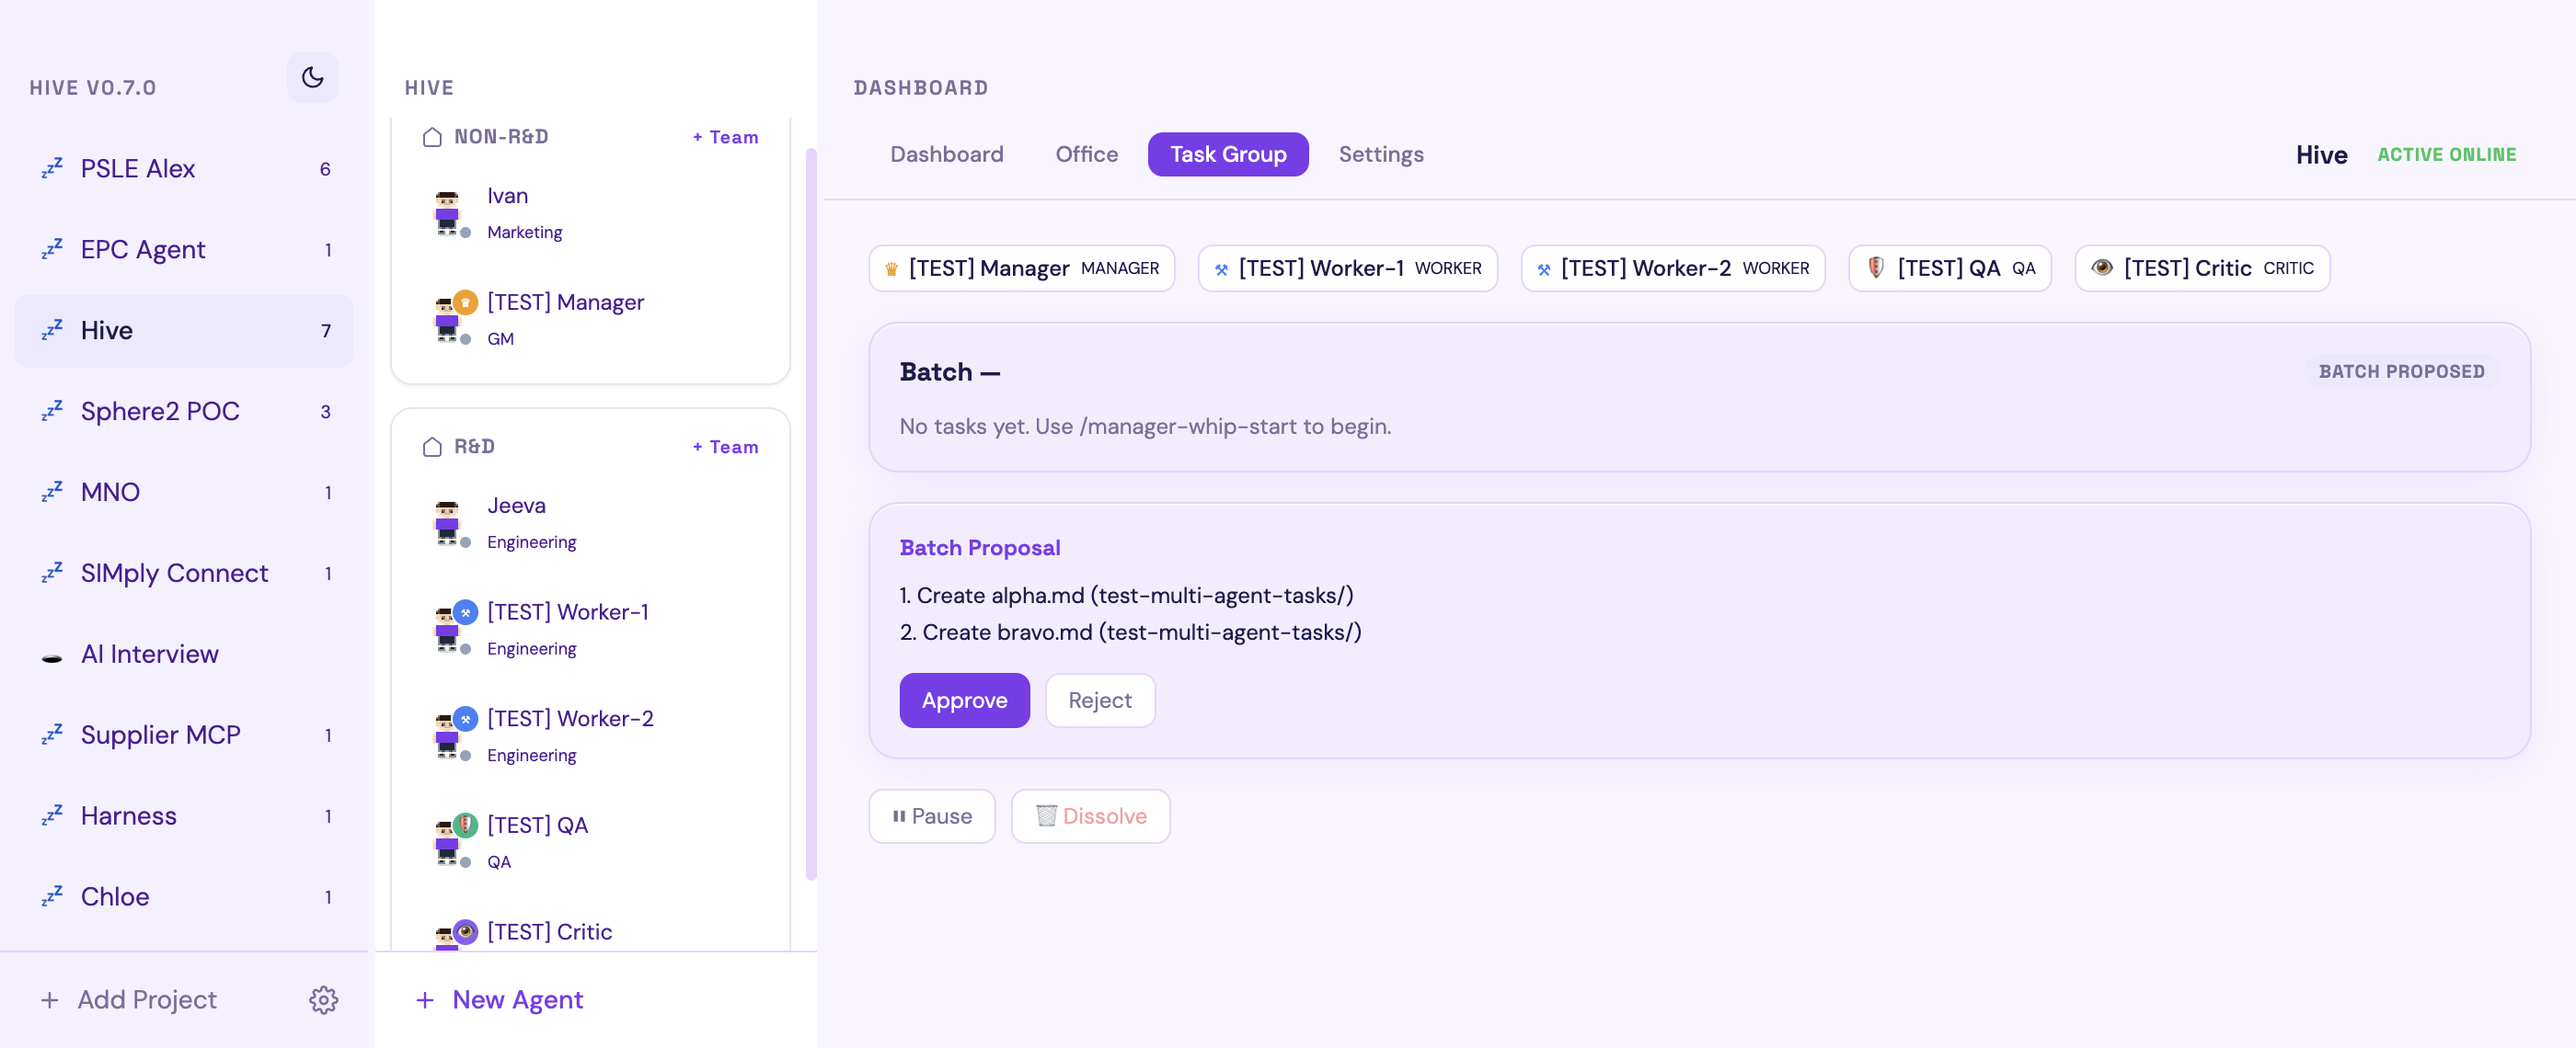
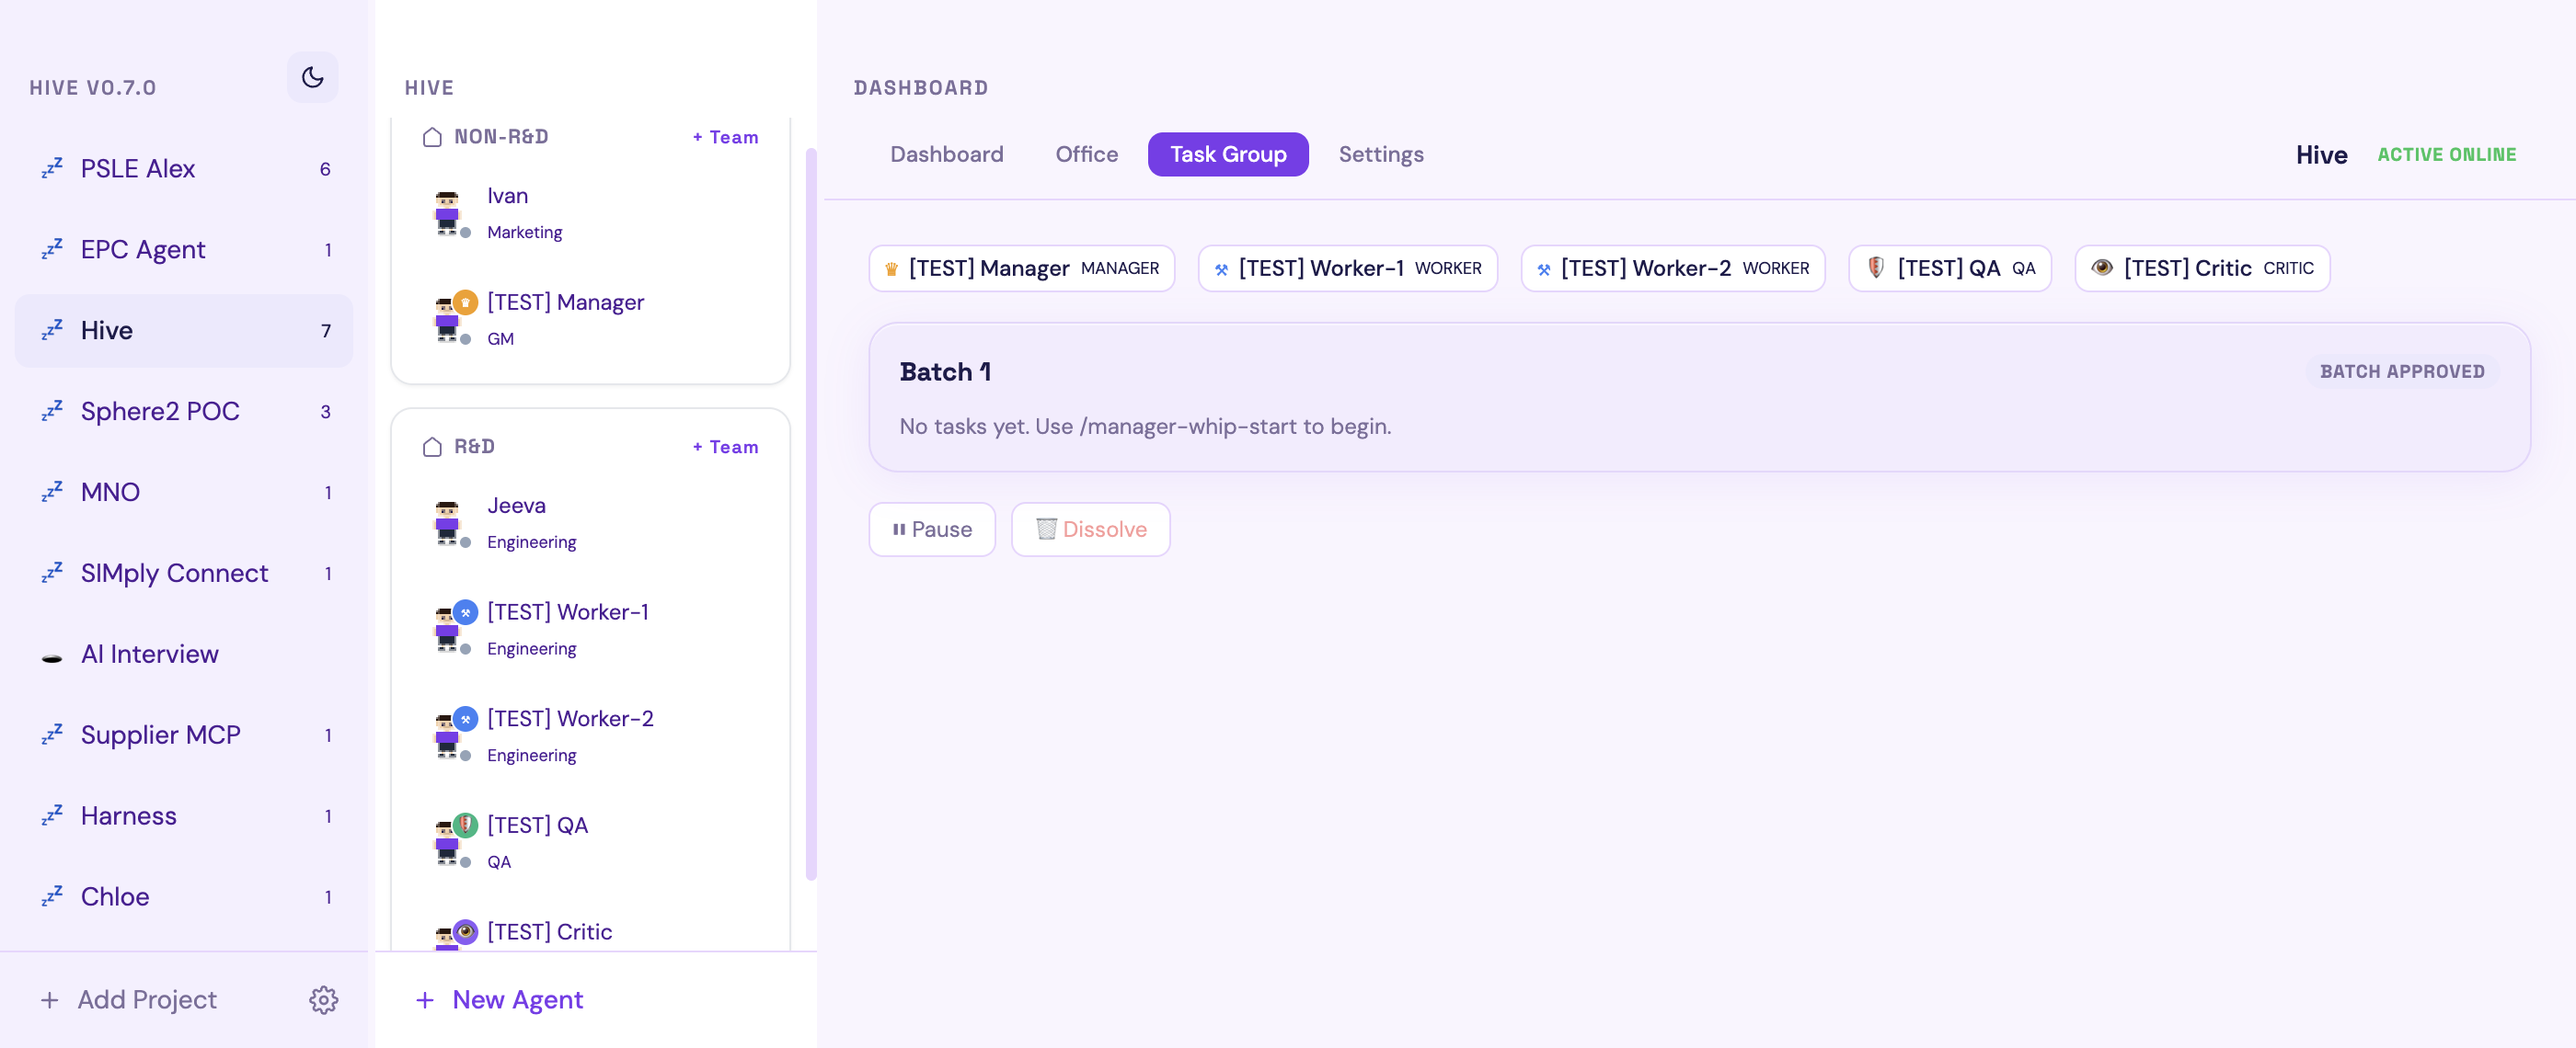
fix: post-approve also waits for assign, not just task existence
Run 28: tasks created at 10s, 4 tasks after approve, but all pending.
Manager was "Noodling..." (still thinking about task-assign). Test
broke out on taskCount>0 without waiting for assign.

diff --git a/e2e/integration.spec.ts b/e2e/integration.spec.ts
@@ -430,9 +430,24 @@ test.describe.serial('Integration Test', () => {
           log(`[post-approve ${jElapsed}s] tasks: ${postApproveCount}`)
 
           if (postApproveCount > 0) {
-            log(`✅ ${postApproveCount} tasks created after approve!`)
-            proposalFound = true
-            break
+            log(`${postApproveCount} tasks exist after approve — checking assign...`)
+            // Check if any assigned
+            const assignedAfter = await page.evaluate(async ({ port, agentId }) => {
+              try {
+                const res = await fetch(`http://127.0.0.1:${port}/task-status`, {
+                  method: 'POST', headers: { 'Content-Type': 'application/json' },
+                  body: JSON.stringify({ agentId })
+                })
+                const tasks = await res.json()
+                if (!Array.isArray(tasks)) return 0
+                return tasks.filter((t: any) => t.status !== 'pending').length
+              } catch { return 0 }
+            }, { port: HIVE_PORT, agentId: managerId })
+            if (assignedAfter > 0) {
+              log(`✅ ${assignedAfter}/${postApproveCount} tasks assigned!`)
+              proposalFound = true
+              break
+            }
           }
         }
         break

diff --git a/test-multi-agent-report/summary.md b/test-multi-agent-report/summary.md
@@ -1,48 +1,50 @@
-16:01:07 # Integration Test (3 tasks)
+16:18:03 # Integration Test (3 tasks)
 
-16:01:07 Isolated data dir: /var/folders/pv/f5m189_n64ldtzhcz3z4m42m0000gn/T/hive-integration-test
-16:01:17 Baseline: 10 projects, 17 agents
-16:01:17 Cleaned residual definition: hive-agent-1775312175222.md
-16:01:20 Created [TEST] Manager
-16:01:23 Created [TEST] Worker-1
-16:01:25 Created [TEST] Worker-2
-16:01:28 Created [TEST] QA
-16:01:30 Created [TEST] Critic
-16:01:33 Task group created
-16:01:36 Manager terminal opened
-16:01:36 Manager ID: agent-1775318480475
-16:01:56 Sent direct instruction to manager
-16:02:07 [10s] task-status: 2 tasks
-16:02:07 ✅ 2 tasks created!
-16:02:07 Proposal found: true
-16:02:11 Worker-1 started
-16:02:15 Worker-2 started
-16:02:46 [30s] Workers: 0/2 done, 0 blocked
-16:03:18 [62s] Workers: 0/2 done, 0 blocked
-16:03:50 [93s] Workers: 0/2 done, 0 blocked
-16:04:22 [125s] Workers: 0/2 done, 0 blocked
-16:04:53 [157s] Workers: 0/2 done, 0 blocked
-16:05:25 [188s] Workers: 0/2 done, 0 blocked
-16:05:57 [220s] Workers: 0/2 done, 0 blocked
-16:06:28 [252s] Workers: 0/2 done, 0 blocked
-16:07:00 [283s] Workers: 0/2 done, 0 blocked
-16:07:32 [315s] Workers: 0/2 done, 0 blocked
-16:08:03 [347s] Workers: 0/2 done, 0 blocked
-16:08:35 [379s] Workers: 0/2 done, 0 blocked
-16:09:07 [410s] Workers: 0/2 done, 0 blocked
-16:09:38 [442s] Workers: 0/2 done, 0 blocked
-16:10:10 [474s] Workers: 0/2 done, 0 blocked
-16:10:42 [505s] Workers: 0/2 done, 0 blocked
-16:10:42 Workers complete: false
-16:10:45 QA started
-16:11:49 Critic started
-16:12:51 Test complete
-16:12:51 
+16:18:03 Isolated data dir: /var/folders/pv/f5m189_n64ldtzhcz3z4m42m0000gn/T/hive-integration-test
+16:18:11 Baseline: 10 projects, 17 agents
+16:18:15 Created [TEST] Manager
+16:18:17 Created [TEST] Worker-1
+16:18:20 Created [TEST] Worker-2
+16:18:22 Created [TEST] QA
+16:18:25 Created [TEST] Critic
+16:18:28 Task group created
+16:18:31 Manager terminal opened
+16:18:31 Manager ID: agent-1775319494865
+16:18:51 Sent direct instruction to manager
+16:19:02 [10s] task-status: 2 tasks
+16:19:02 2 tasks exist — waiting for assign...
+16:19:03 ✅ Clicked Approve — now waiting for Manager to create tasks
+16:19:15 [post-approve 10s] tasks: 4
+16:19:15 ✅ 4 tasks created after approve!
+16:19:16 Proposal found: true
+16:19:19 Worker-1 started
+16:19:23 Worker-2 started
+16:19:55 [30s] Workers: 0/4 done, 0 blocked
+16:20:26 [62s] Workers: 0/4 done, 0 blocked
+16:20:58 [93s] Workers: 0/4 done, 0 blocked
+16:21:30 [125s] Workers: 0/4 done, 0 blocked
+16:22:01 [157s] Workers: 0/4 done, 0 blocked
+16:22:33 [188s] Workers: 0/4 done, 0 blocked
+16:23:05 [220s] Workers: 0/4 done, 0 blocked
+16:23:36 [252s] Workers: 0/4 done, 0 blocked
+16:24:08 [284s] Workers: 0/4 done, 0 blocked
+16:24:40 [315s] Workers: 0/4 done, 0 blocked
+16:25:11 [347s] Workers: 0/4 done, 0 blocked
+16:25:43 [379s] Workers: 0/4 done, 0 blocked
+16:26:15 [410s] Workers: 0/4 done, 0 blocked
+16:26:46 [442s] Workers: 0/4 done, 0 blocked
+16:27:18 [474s] Workers: 0/4 done, 0 blocked
+16:27:50 [505s] Workers: 0/4 done, 0 blocked
+16:27:50 Workers complete: false
+16:27:54 QA started
+16:28:57 Critic started
+16:29:59 Test complete
+16:29:59 
 --- TEARDOWN ---
-16:12:53 Dissolved task group
-16:12:54 Deleted: [TEST] Manager
-16:12:55 Deleted: [TEST] Worker-1
-16:12:56 Deleted: [TEST] Worker-2
-16:12:57 Deleted: [TEST] QA
-16:12:57 Deleted: [TEST] Critic
-16:12:57 Final: 10 projects, 17 agents
+16:30:01 Dissolved task group
+16:30:02 Deleted: [TEST] Manager
+16:30:03 Deleted: [TEST] Worker-1
+16:30:04 Deleted: [TEST] Worker-2
+16:30:05 Deleted: [TEST] QA
+16:30:06 Deleted: [TEST] Critic
+16:30:06 Final: 10 projects, 17 agents
